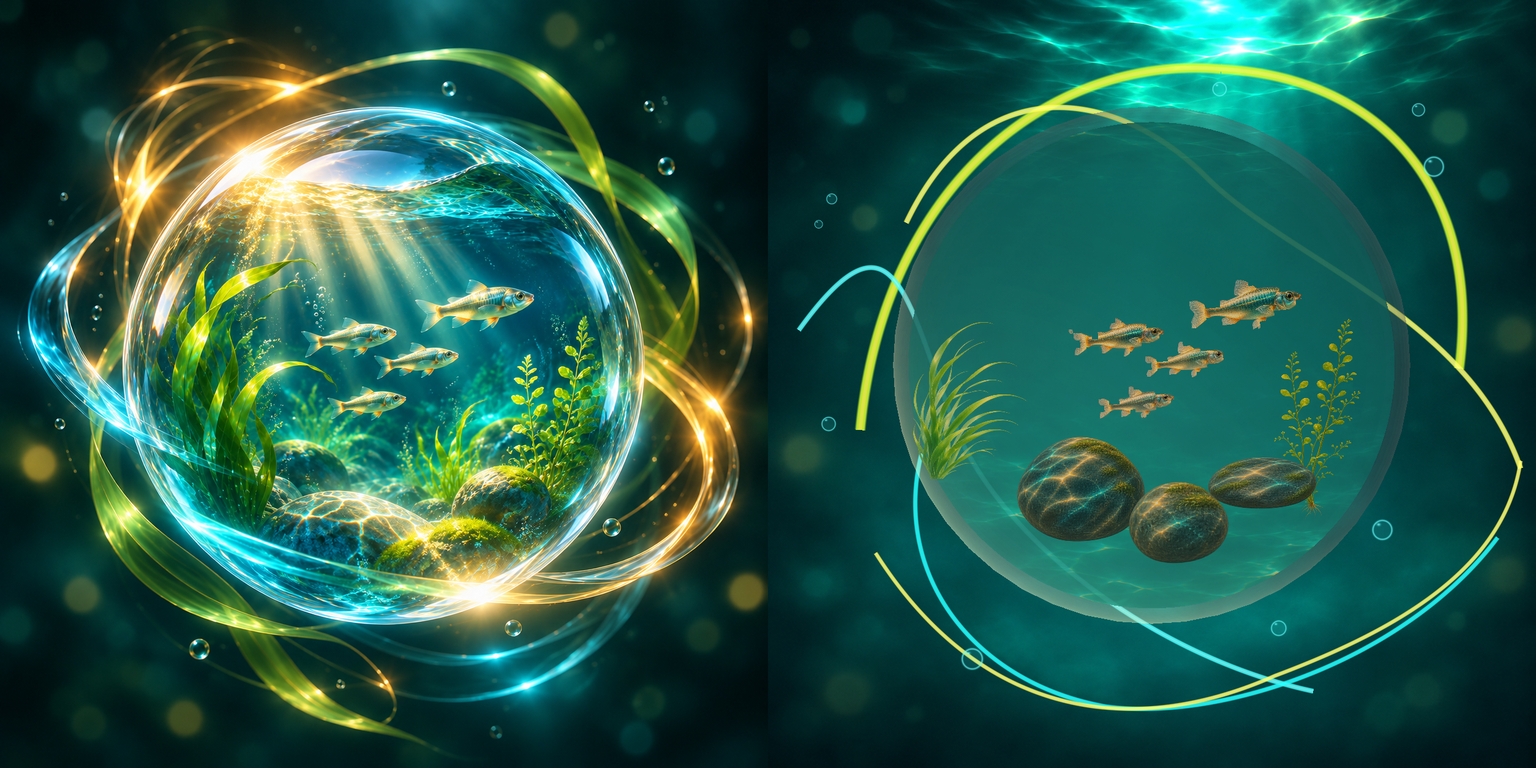
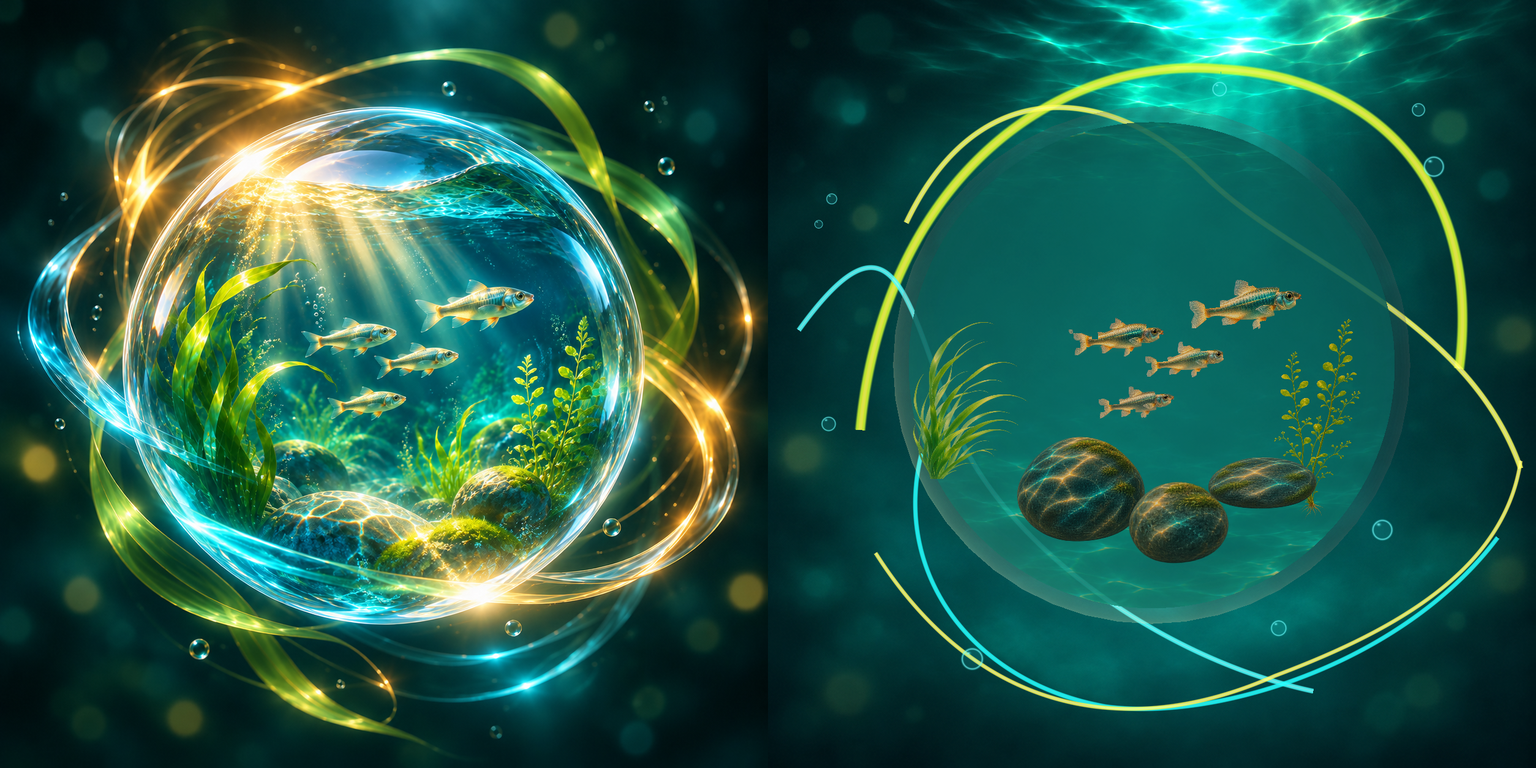
fix(water-world): separate glass hemispheres and record bounded diagnostics

Changed region(s): [[0.622, 0.6842, 0.8397, 0.8086], [0.5598, 0.4043, 0.622, 0.6842], [0.8397, 0.7153, 0.8708, 0.7464]]

diff --git a/app/src/main/java/com/example/waterworld/WaterWorldStaticRenderer.kt b/app/src/main/java/com/example/waterworld/WaterWorldStaticRenderer.kt
@@ -23,6 +23,7 @@ internal class WaterWorldStaticRenderer(private val root: File) {
         val lightColor: FloatArray,
         val depthWrite: Boolean = false,
         val fresnel: Float = 0f,
+        val shellSide: Float = 0f,
     )
     private data class Draw(val binding: Binding, val mesh: WaterWorldMesh, val texture: Int)
     private val loader = WaterWorldAssetLoader(root)
@@ -83,6 +84,7 @@ internal class WaterWorldStaticRenderer(private val root: File) {
             GLES30.glUniform1f(p.uniform("uAmbient"),binding.ambient)
             GLES30.glUniform1f(p.uniform("uEmission"),binding.emission)
             GLES30.glUniform1f(p.uniform("uFresnel"),binding.fresnel)
+            GLES30.glUniform1f(p.uniform("uShellSide"),binding.shellSide)
             GLES30.glUniform1f(p.uniform("uUseTexture"),if(binding.texturePath==null) 0f else 1f)
             GLES30.glActiveTexture(GLES30.GL_TEXTURE0)
             GLES30.glBindTexture(GLES30.GL_TEXTURE_2D,texture)

diff --git a/app/src/main/java/com/example/waterworld/WaterWorldSceneBindings.kt b/app/src/main/java/com/example/waterworld/WaterWorldSceneBindings.kt
@@ -36,7 +36,7 @@ internal object WaterWorldSceneBindings {
                 textureSha256=if(row.isNull("texture_sha256")) null else row.getString("texture_sha256"),
                 emission=material.getDouble("emission").toFloat(),
                 ambient=row.optDouble("ambient",.35).toFloat(),lightDirection=direction.copyOf(),lightColor=light.copyOf(),
-                depthWrite=row.getBoolean("depth_write"),fresnel=material.getDouble("fresnel").toFloat())
+                depthWrite=row.getBoolean("depth_write"),fresnel=material.getDouble("fresnel").toFloat(),shellSide=row.optDouble("shell_side",0.0).toFloat())
         }
         require(result.isNotEmpty() && result.map { it.objectId }.distinct().size==result.size)
         return result

diff --git a/app/src/main/java/com/example/waterworld/WaterWorldProgram.kt b/app/src/main/java/com/example/waterworld/WaterWorldProgram.kt
@@ -64,8 +64,10 @@ internal class WaterWorldProgram {
             uniform float uEmission;
             uniform float uUseTexture;
             uniform float uFresnel;
+            uniform float uShellSide;
             out vec4 color;
             void main() {
+                if(uShellSide!=0.0 && vNormal.z*uShellSide<0.0) discard;
                 vec4 base=mix(vec4(1.0),texture(uTexture,vUv),uUseTexture)*uTint;
                 if(base.a<0.001) discard;
                 // Ribbon UV.v spans the original stroke width; soften its boundary

diff --git a/tools/water-world-scene-assembly/render_diagnostic.py b/tools/water-world-scene-assembly/render_diagnostic.py
@@ -45,7 +45,7 @@ def render(fn,program):
    call('glUniformMatrix4fv',None,[I,I,c.c_ubyte,c.POINTER(F)],loc('uModel'),1,0,(F*16)(*d['model']))
    for name,values in [('uTint',tint),('uLightDirection',key_light['direction']),('uLightColor',light_color)]:
     call('glUniform'+str(len(values))+'fv',None,[I,I,c.POINTER(F)],loc(name),1,(F*len(values))(*values))
-   for name,value in [('uFresnel',mat['fresnel']),('uAmbient',d['ambient']),('uEmission',mat['emission']),('uUseTexture',1 if d['texture_path'] else 0)]:call('glUniform1f',None,[I,F],loc(name),value)
+   for name,value in [('uShellSide',d.get('shell_side',0)),('uFresnel',mat['fresnel']),('uAmbient',d['ambient']),('uEmission',mat['emission']),('uUseTexture',1 if d['texture_path'] else 0)]:call('glUniform1f',None,[I,F],loc(name),value)
    call('glDepthMask',None,[c.c_ubyte],int(d['depth_write']));call('glDrawElements',None,[U,I,U,P],4,len(indices),0x1405,None)
    assert call('glGetError',U,[])==0,d['draw_id']
  pixels=(c.c_ubyte*(1254*1254*4))();call('glReadPixels',None,[I,I,I,I,U,U,P],0,0,1254,1254,0x1908,0x1401,pixels);assert call('glGetError',U,[])==0

diff --git a/tools/water-world-scene-assembly/build_draw_bindings.py b/tools/water-world-scene-assembly/build_draw_bindings.py
@@ -11,6 +11,7 @@ def run():
    model=IDENTITY.copy();model[14]=depth
    raw=z.read('WATER_WORLD_V2/'+texture) if texture else None
    d=dict(draw_id=oid,mesh_path=mesh,material=material,texture_path='01_REUSED_ASSETS/'+texture if texture else None,texture_sha256=hashlib.sha256(raw).hexdigest() if raw else None,model=model,depth_write=oid=='background',ambient=ambient)
+   d['shell_side']=1 if oid=='sphere_back' else -1 if oid=='sphere_front' else 0
    if tint is not None:d['tint']=tint
    draws.append(d)
   # Full canvas environment quad: source artwork remains an independent background.
